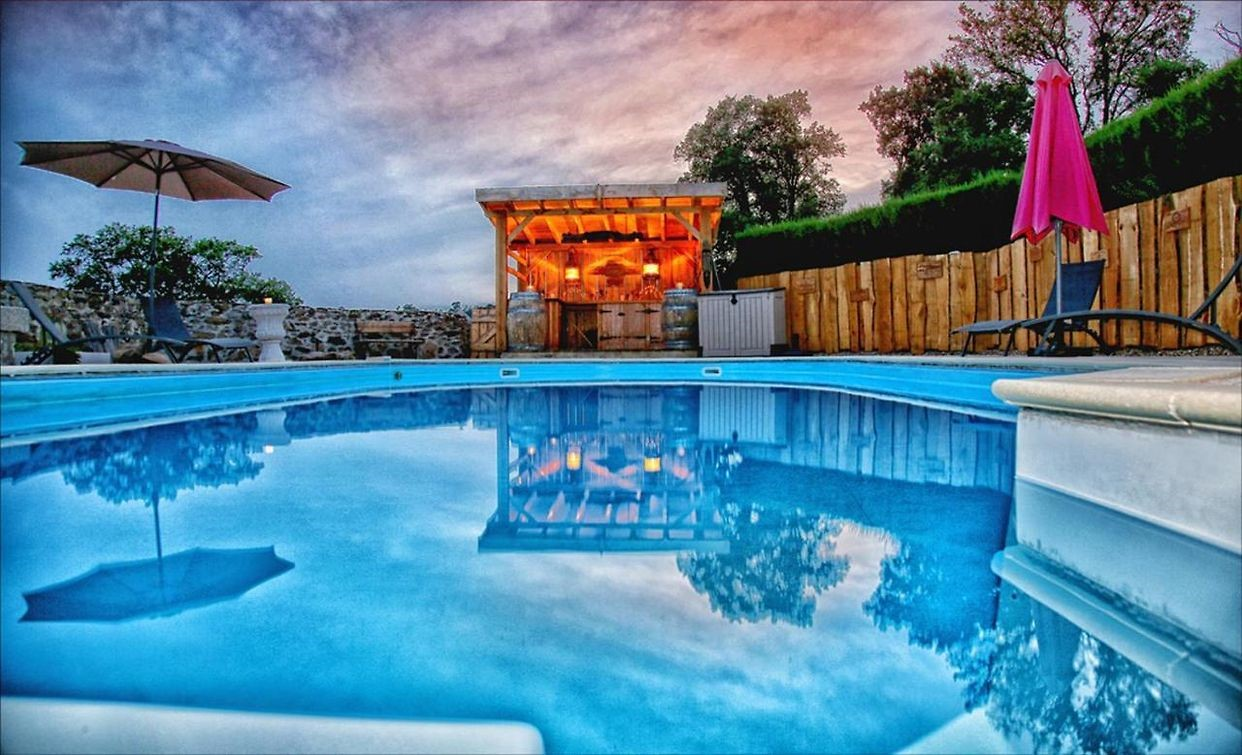
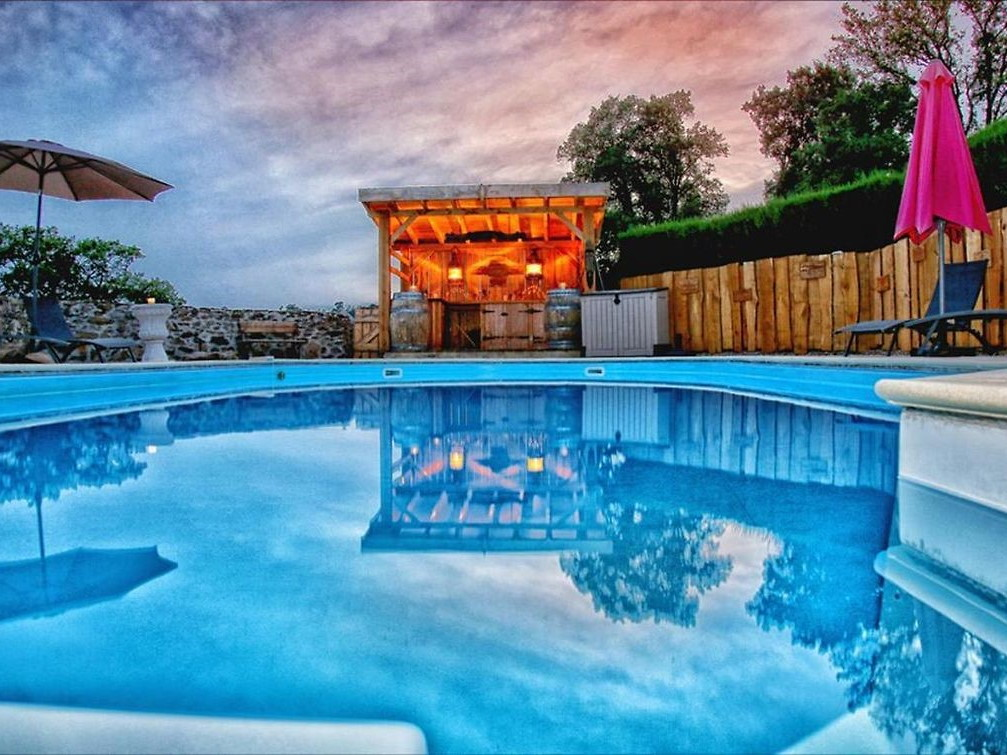
update site

diff --git a/vendor/assets/stylesheets/assets/css/venobox.css b/vendor/assets/stylesheets/assets/css/venobox.css
@@ -192,7 +192,7 @@ or at least read this note: http://i.imgur.com/7C0ws9e.gif
     padding: 20px 10px;
 }
 .vbox-container img{
-    max-width: 100%;
+    max-width: 60%;
     height: auto;
 }
 .figlio{

diff --git a/vendor/assets/stylesheets/assets/css/responsive.css b/vendor/assets/stylesheets/assets/css/responsive.css
@@ -2,7 +2,7 @@
 @media (min-width: 1400px) and (max-width: 1920px) {
 	
 .project-desc {
-    padding-top: 49%;
+    padding-top: 35%;
 }
 
 }
